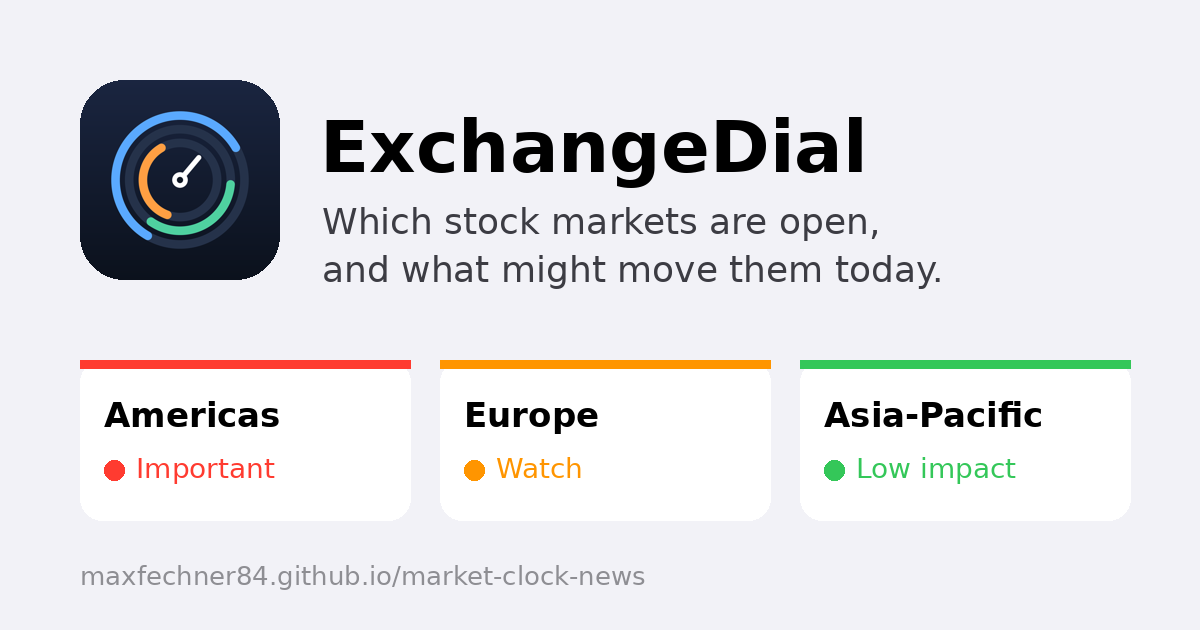
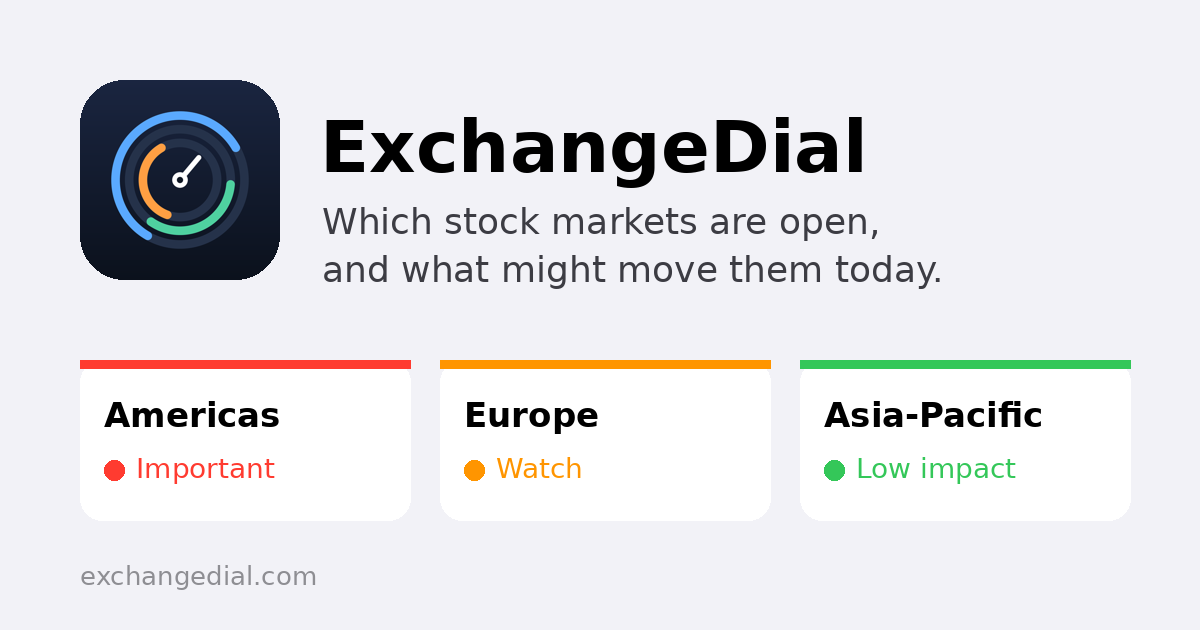
Use custom domain exchangedial.com
Claude-Session: https://claude.ai/code/session_01S3Vu1Jfy3DDBFWdjwpbPo2

Changed region(s): [[0.0617, 0.9048, 0.555, 0.9349]]

diff --git a/index.html b/index.html
@@ -8,8 +8,8 @@
 <meta name="color-scheme" content="light dark">
 <meta name="theme-color" content="#f2f2f7" media="(prefers-color-scheme: light)">
 <meta name="theme-color" content="#000000" media="(prefers-color-scheme: dark)">
-<link rel="canonical" href="https://maxfechner84.github.io/market-clock-news/">
-<link rel="alternate" hreflang="x-default" href="https://maxfechner84.github.io/market-clock-news/">
+<link rel="canonical" href="https://exchangedial.com/">
+<link rel="alternate" hreflang="x-default" href="https://exchangedial.com/">
 <link rel="manifest" href="manifest.webmanifest">
 <link rel="icon" href="icon-192.png">
 <link rel="apple-touch-icon" href="icon.png">
@@ -18,8 +18,8 @@
 <meta name="apple-mobile-web-app-status-bar-style" content="default">
 <meta property="og:title" content="ExchangeDial – which stock markets are open, and what might move them today">
 <meta property="og:description" content="Live countdowns for 11 world exchanges plus a colour-coded summary of today's market-moving news.">
-<meta property="og:image" content="https://maxfechner84.github.io/market-clock-news/og.png">
-<meta property="og:url" content="https://maxfechner84.github.io/market-clock-news/">
+<meta property="og:image" content="https://exchangedial.com/og.png">
+<meta property="og:url" content="https://exchangedial.com/">
 <meta name="twitter:card" content="summary_large_image">
 <style>
 :root {
@@ -620,13 +620,13 @@ h1 { white-space: nowrap; }
       var top = (Array.isArray(n.stories) ? n.stories : []).filter(function (s) { return s && s.level !== "green"; })[0];
       if (top) { g.fillStyle = "#000"; g.font = "600 21px " + F; wrapText(g, "• " + loc(top, "title"), x + 22, yy + 16, cw - 44, 28, 5); }
     });
-    g.fillStyle = "rgba(60,60,67,.6)"; g.font = "500 22px " + F; g.fillText("maxfechner84.github.io/market-clock-news", 48, 604);
+    g.fillStyle = "rgba(60,60,67,.6)"; g.font = "500 22px " + F; g.fillText("exchangedial.com", 48, 604);
     return c;
   }
   document.getElementById("shareBtn").addEventListener("click", function () {
     makeImage().toBlob(function (blob) {
       var file = new File([blob], "market-clock-" + new Date().toISOString().slice(0, 10) + ".png", { type: "image/png" });
-      var data = { files: [file], title: "ExchangeDial", text: t("shareTitle") + " – https://maxfechner84.github.io/market-clock-news/" };
+      var data = { files: [file], title: "ExchangeDial", text: t("shareTitle") + " – https://exchangedial.com/" };
       if (navigator.canShare && navigator.canShare(data)) { navigator.share(data).catch(function () {}); return; }
       var a = document.createElement("a"); a.href = URL.createObjectURL(blob); a.download = file.name; document.body.appendChild(a); a.click(); a.remove();
     }, "image/png");

diff --git a/markets/euronext-paris-fr.html b/markets/euronext-paris-fr.html
@@ -6,14 +6,14 @@
 <title>Euronext ouverte aujourd&#x27;hui ? Horaires Paris en heure de Paris | ExchangeDial</title>
 <meta name="description" content="Horaires d&#x27;ouverture de la Euronext Paris (Paris), en heure locale et dans votre fuseau, statut en direct et jours de fermeture 2026–2027.">
 <meta name="color-scheme" content="light dark">
-<link rel="canonical" href="https://maxfechner84.github.io/market-clock-news/markets/euronext-paris-fr.html">
-<link rel="alternate" hreflang="en" href="https://maxfechner84.github.io/market-clock-news/markets/euronext-paris.html">
-<link rel="alternate" hreflang="fr" href="https://maxfechner84.github.io/market-clock-news/markets/euronext-paris-fr.html">
-<link rel="alternate" hreflang="x-default" href="https://maxfechner84.github.io/market-clock-news/markets/euronext-paris.html">
+<link rel="canonical" href="https://exchangedial.com/markets/euronext-paris-fr.html">
+<link rel="alternate" hreflang="en" href="https://exchangedial.com/markets/euronext-paris.html">
+<link rel="alternate" hreflang="fr" href="https://exchangedial.com/markets/euronext-paris-fr.html">
+<link rel="alternate" hreflang="x-default" href="https://exchangedial.com/markets/euronext-paris.html">
 <link rel="manifest" href="../manifest.webmanifest">
 <link rel="icon" href="../icon-192.png">
 <link rel="apple-touch-icon" href="../icon.png">
-<meta property="og:image" content="https://maxfechner84.github.io/market-clock-news/og.png">
+<meta property="og:image" content="https://exchangedial.com/og.png">
 <script type="application/ld+json">{"@context": "https://schema.org", "@type": "FAQPage", "mainEntity": [{"@type": "Question", "name": "À quelle heure ouvre la Euronext Paris ?", "acceptedAnswer": {"@type": "Answer", "text": "À 09:00, heure locale (Europe/Paris). L'heure dans votre fuseau est indiquée ci-dessus."}}, {"@type": "Question", "name": "Est-elle ouverte le week-end ?", "acceptedAnswer": {"@type": "Answer", "text": "Non, elle est fermée le samedi et le dimanche."}}, {"@type": "Question", "name": "Les horaires changent-ils avec l'heure d'été ?", "acceptedAnswer": {"@type": "Answer", "text": "Les horaires locaux restent les mêmes, mais l'écart avec votre heure peut changer quand l'un des deux pays change d'heure. Cette page en tient compte automatiquement."}}]}</script>
 <style>
 :root {

diff --git a/markets/xetra-fr.html b/markets/xetra-fr.html
@@ -6,14 +6,14 @@
 <title>Xetra ouverte aujourd&#x27;hui ? Horaires Francfort en heure de Paris | ExchangeDial</title>
 <meta name="description" content="Horaires d&#x27;ouverture de la Bourse de Francfort (Xetra) (Francfort), en heure locale et dans votre fuseau, statut en direct et jours de fermeture 2026–2027.">
 <meta name="color-scheme" content="light dark">
-<link rel="canonical" href="https://maxfechner84.github.io/market-clock-news/markets/xetra-fr.html">
-<link rel="alternate" hreflang="en" href="https://maxfechner84.github.io/market-clock-news/markets/xetra.html">
-<link rel="alternate" hreflang="fr" href="https://maxfechner84.github.io/market-clock-news/markets/xetra-fr.html">
-<link rel="alternate" hreflang="x-default" href="https://maxfechner84.github.io/market-clock-news/markets/xetra.html">
+<link rel="canonical" href="https://exchangedial.com/markets/xetra-fr.html">
+<link rel="alternate" hreflang="en" href="https://exchangedial.com/markets/xetra.html">
+<link rel="alternate" hreflang="fr" href="https://exchangedial.com/markets/xetra-fr.html">
+<link rel="alternate" hreflang="x-default" href="https://exchangedial.com/markets/xetra.html">
 <link rel="manifest" href="../manifest.webmanifest">
 <link rel="icon" href="../icon-192.png">
 <link rel="apple-touch-icon" href="../icon.png">
-<meta property="og:image" content="https://maxfechner84.github.io/market-clock-news/og.png">
+<meta property="og:image" content="https://exchangedial.com/og.png">
 <script type="application/ld+json">{"@context": "https://schema.org", "@type": "FAQPage", "mainEntity": [{"@type": "Question", "name": "À quelle heure ouvre la Bourse de Francfort (Xetra) ?", "acceptedAnswer": {"@type": "Answer", "text": "À 09:00, heure locale (Europe/Berlin). L'heure dans votre fuseau est indiquée ci-dessus."}}, {"@type": "Question", "name": "Est-elle ouverte le week-end ?", "acceptedAnswer": {"@type": "Answer", "text": "Non, elle est fermée le samedi et le dimanche."}}, {"@type": "Question", "name": "Les horaires changent-ils avec l'heure d'été ?", "acceptedAnswer": {"@type": "Answer", "text": "Les horaires locaux restent les mêmes, mais l'écart avec votre heure peut changer quand l'un des deux pays change d'heure. Cette page en tient compte automatiquement."}}]}</script>
 <style>
 :root {

diff --git a/markets/hkex-fr.html b/markets/hkex-fr.html
@@ -6,14 +6,14 @@
 <title>HKEX ouverte aujourd&#x27;hui ? Horaires Hong Kong en heure de Paris | ExchangeDial</title>
 <meta name="description" content="Horaires d&#x27;ouverture de la Bourse de Hong Kong (HKEX) (Hong Kong), en heure locale et dans votre fuseau, statut en direct et jours de fermeture 2026–2027.">
 <meta name="color-scheme" content="light dark">
-<link rel="canonical" href="https://maxfechner84.github.io/market-clock-news/markets/hkex-fr.html">
-<link rel="alternate" hreflang="en" href="https://maxfechner84.github.io/market-clock-news/markets/hkex.html">
-<link rel="alternate" hreflang="fr" href="https://maxfechner84.github.io/market-clock-news/markets/hkex-fr.html">
-<link rel="alternate" hreflang="x-default" href="https://maxfechner84.github.io/market-clock-news/markets/hkex.html">
+<link rel="canonical" href="https://exchangedial.com/markets/hkex-fr.html">
+<link rel="alternate" hreflang="en" href="https://exchangedial.com/markets/hkex.html">
+<link rel="alternate" hreflang="fr" href="https://exchangedial.com/markets/hkex-fr.html">
+<link rel="alternate" hreflang="x-default" href="https://exchangedial.com/markets/hkex.html">
 <link rel="manifest" href="../manifest.webmanifest">
 <link rel="icon" href="../icon-192.png">
 <link rel="apple-touch-icon" href="../icon.png">
-<meta property="og:image" content="https://maxfechner84.github.io/market-clock-news/og.png">
+<meta property="og:image" content="https://exchangedial.com/og.png">
 <script type="application/ld+json">{"@context": "https://schema.org", "@type": "FAQPage", "mainEntity": [{"@type": "Question", "name": "À quelle heure ouvre la Bourse de Hong Kong (HKEX) ?", "acceptedAnswer": {"@type": "Answer", "text": "À 09:30, heure locale (Asia/Hong Kong). L'heure dans votre fuseau est indiquée ci-dessus."}}, {"@type": "Question", "name": "Est-elle ouverte le week-end ?", "acceptedAnswer": {"@type": "Answer", "text": "Non, elle est fermée le samedi et le dimanche."}}, {"@type": "Question", "name": "Les horaires changent-ils avec l'heure d'été ?", "acceptedAnswer": {"@type": "Answer", "text": "Les horaires locaux restent les mêmes, mais l'écart avec votre heure peut changer quand l'un des deux pays change d'heure. Cette page en tient compte automatiquement."}}]}</script>
 <style>
 :root {

diff --git a/markets/nse-fr.html b/markets/nse-fr.html
@@ -6,14 +6,14 @@
 <title>NSE ouverte aujourd&#x27;hui ? Horaires Bombay en heure de Paris | ExchangeDial</title>
 <meta name="description" content="Horaires d&#x27;ouverture de la Bourse nationale de l&#x27;Inde (NSE) (Bombay), en heure locale et dans votre fuseau, statut en direct et jours de fermeture 2026–2027.">
 <meta name="color-scheme" content="light dark">
-<link rel="canonical" href="https://maxfechner84.github.io/market-clock-news/markets/nse-fr.html">
-<link rel="alternate" hreflang="en" href="https://maxfechner84.github.io/market-clock-news/markets/nse.html">
-<link rel="alternate" hreflang="fr" href="https://maxfechner84.github.io/market-clock-news/markets/nse-fr.html">
-<link rel="alternate" hreflang="x-default" href="https://maxfechner84.github.io/market-clock-news/markets/nse.html">
+<link rel="canonical" href="https://exchangedial.com/markets/nse-fr.html">
+<link rel="alternate" hreflang="en" href="https://exchangedial.com/markets/nse.html">
+<link rel="alternate" hreflang="fr" href="https://exchangedial.com/markets/nse-fr.html">
+<link rel="alternate" hreflang="x-default" href="https://exchangedial.com/markets/nse.html">
 <link rel="manifest" href="../manifest.webmanifest">
 <link rel="icon" href="../icon-192.png">
 <link rel="apple-touch-icon" href="../icon.png">
-<meta property="og:image" content="https://maxfechner84.github.io/market-clock-news/og.png">
+<meta property="og:image" content="https://exchangedial.com/og.png">
 <script type="application/ld+json">{"@context": "https://schema.org", "@type": "FAQPage", "mainEntity": [{"@type": "Question", "name": "À quelle heure ouvre la Bourse nationale de l'Inde (NSE) ?", "acceptedAnswer": {"@type": "Answer", "text": "À 09:15, heure locale (Asia/Kolkata). L'heure dans votre fuseau est indiquée ci-dessus."}}, {"@type": "Question", "name": "Est-elle ouverte le week-end ?", "acceptedAnswer": {"@type": "Answer", "text": "Non, elle est fermée le samedi et le dimanche."}}, {"@type": "Question", "name": "Les horaires changent-ils avec l'heure d'été ?", "acceptedAnswer": {"@type": "Answer", "text": "Les horaires locaux restent les mêmes, mais l'écart avec votre heure peut changer quand l'un des deux pays change d'heure. Cette page en tient compte automatiquement."}}]}</script>
 <style>
 :root {

diff --git a/markets/nyse-fr.html b/markets/nyse-fr.html
@@ -6,14 +6,14 @@
 <title>NYSE ouverte aujourd&#x27;hui ? Horaires New York en heure de Paris | ExchangeDial</title>
 <meta name="description" content="Horaires d&#x27;ouverture de la Bourse de New York (NYSE) (New York), en heure locale et dans votre fuseau, statut en direct et jours de fermeture 2026–2027.">
 <meta name="color-scheme" content="light dark">
-<link rel="canonical" href="https://maxfechner84.github.io/market-clock-news/markets/nyse-fr.html">
-<link rel="alternate" hreflang="en" href="https://maxfechner84.github.io/market-clock-news/markets/nyse.html">
-<link rel="alternate" hreflang="fr" href="https://maxfechner84.github.io/market-clock-news/markets/nyse-fr.html">
-<link rel="alternate" hreflang="x-default" href="https://maxfechner84.github.io/market-clock-news/markets/nyse.html">
+<link rel="canonical" href="https://exchangedial.com/markets/nyse-fr.html">
+<link rel="alternate" hreflang="en" href="https://exchangedial.com/markets/nyse.html">
+<link rel="alternate" hreflang="fr" href="https://exchangedial.com/markets/nyse-fr.html">
+<link rel="alternate" hreflang="x-default" href="https://exchangedial.com/markets/nyse.html">
 <link rel="manifest" href="../manifest.webmanifest">
 <link rel="icon" href="../icon-192.png">
 <link rel="apple-touch-icon" href="../icon.png">
-<meta property="og:image" content="https://maxfechner84.github.io/market-clock-news/og.png">
+<meta property="og:image" content="https://exchangedial.com/og.png">
 <script type="application/ld+json">{"@context": "https://schema.org", "@type": "FAQPage", "mainEntity": [{"@type": "Question", "name": "À quelle heure ouvre la Bourse de New York (NYSE) ?", "acceptedAnswer": {"@type": "Answer", "text": "À 09:30, heure locale (America/New York). L'heure dans votre fuseau est indiquée ci-dessus."}}, {"@type": "Question", "name": "Est-elle ouverte le week-end ?", "acceptedAnswer": {"@type": "Answer", "text": "Non, elle est fermée le samedi et le dimanche."}}, {"@type": "Question", "name": "Les horaires changent-ils avec l'heure d'été ?", "acceptedAnswer": {"@type": "Answer", "text": "Les horaires locaux restent les mêmes, mais l'écart avec votre heure peut changer quand l'un des deux pays change d'heure. Cette page en tient compte automatiquement."}}]}</script>
 <style>
 :root {

diff --git a/markets/sgx-fr.html b/markets/sgx-fr.html
@@ -6,14 +6,14 @@
 <title>SGX ouverte aujourd&#x27;hui ? Horaires Singapour en heure de Paris | ExchangeDial</title>
 <meta name="description" content="Horaires d&#x27;ouverture de la Bourse de Singapour (SGX) (Singapour), en heure locale et dans votre fuseau, statut en direct et jours de fermeture 2026–2027.">
 <meta name="color-scheme" content="light dark">
-<link rel="canonical" href="https://maxfechner84.github.io/market-clock-news/markets/sgx-fr.html">
-<link rel="alternate" hreflang="en" href="https://maxfechner84.github.io/market-clock-news/markets/sgx.html">
-<link rel="alternate" hreflang="fr" href="https://maxfechner84.github.io/market-clock-news/markets/sgx-fr.html">
-<link rel="alternate" hreflang="x-default" href="https://maxfechner84.github.io/market-clock-news/markets/sgx.html">
+<link rel="canonical" href="https://exchangedial.com/markets/sgx-fr.html">
+<link rel="alternate" hreflang="en" href="https://exchangedial.com/markets/sgx.html">
+<link rel="alternate" hreflang="fr" href="https://exchangedial.com/markets/sgx-fr.html">
+<link rel="alternate" hreflang="x-default" href="https://exchangedial.com/markets/sgx.html">
 <link rel="manifest" href="../manifest.webmanifest">
 <link rel="icon" href="../icon-192.png">
 <link rel="apple-touch-icon" href="../icon.png">
-<meta property="og:image" content="https://maxfechner84.github.io/market-clock-news/og.png">
+<meta property="og:image" content="https://exchangedial.com/og.png">
 <script type="application/ld+json">{"@context": "https://schema.org", "@type": "FAQPage", "mainEntity": [{"@type": "Question", "name": "À quelle heure ouvre la Bourse de Singapour (SGX) ?", "acceptedAnswer": {"@type": "Answer", "text": "À 09:00, heure locale (Asia/Singapore). L'heure dans votre fuseau est indiquée ci-dessus."}}, {"@type": "Question", "name": "Est-elle ouverte le week-end ?", "acceptedAnswer": {"@type": "Answer", "text": "Non, elle est fermée le samedi et le dimanche."}}, {"@type": "Question", "name": "Les horaires changent-ils avec l'heure d'été ?", "acceptedAnswer": {"@type": "Answer", "text": "Les horaires locaux restent les mêmes, mais l'écart avec votre heure peut changer quand l'un des deux pays change d'heure. Cette page en tient compte automatiquement."}}]}</script>
 <style>
 :root {

diff --git a/markets/asx-fr.html b/markets/asx-fr.html
@@ -6,14 +6,14 @@
 <title>ASX ouverte aujourd&#x27;hui ? Horaires Sydney en heure de Paris | ExchangeDial</title>
 <meta name="description" content="Horaires d&#x27;ouverture de la Bourse australienne (ASX) (Sydney), en heure locale et dans votre fuseau, statut en direct et jours de fermeture 2026–2027.">
 <meta name="color-scheme" content="light dark">
-<link rel="canonical" href="https://maxfechner84.github.io/market-clock-news/markets/asx-fr.html">
-<link rel="alternate" hreflang="en" href="https://maxfechner84.github.io/market-clock-news/markets/asx.html">
-<link rel="alternate" hreflang="fr" href="https://maxfechner84.github.io/market-clock-news/markets/asx-fr.html">
-<link rel="alternate" hreflang="x-default" href="https://maxfechner84.github.io/market-clock-news/markets/asx.html">
+<link rel="canonical" href="https://exchangedial.com/markets/asx-fr.html">
+<link rel="alternate" hreflang="en" href="https://exchangedial.com/markets/asx.html">
+<link rel="alternate" hreflang="fr" href="https://exchangedial.com/markets/asx-fr.html">
+<link rel="alternate" hreflang="x-default" href="https://exchangedial.com/markets/asx.html">
 <link rel="manifest" href="../manifest.webmanifest">
 <link rel="icon" href="../icon-192.png">
 <link rel="apple-touch-icon" href="../icon.png">
-<meta property="og:image" content="https://maxfechner84.github.io/market-clock-news/og.png">
+<meta property="og:image" content="https://exchangedial.com/og.png">
 <script type="application/ld+json">{"@context": "https://schema.org", "@type": "FAQPage", "mainEntity": [{"@type": "Question", "name": "À quelle heure ouvre la Bourse australienne (ASX) ?", "acceptedAnswer": {"@type": "Answer", "text": "À 10:00, heure locale (Australia/Sydney). L'heure dans votre fuseau est indiquée ci-dessus."}}, {"@type": "Question", "name": "Est-elle ouverte le week-end ?", "acceptedAnswer": {"@type": "Answer", "text": "Non, elle est fermée le samedi et le dimanche."}}, {"@type": "Question", "name": "Les horaires changent-ils avec l'heure d'été ?", "acceptedAnswer": {"@type": "Answer", "text": "Les horaires locaux restent les mêmes, mais l'écart avec votre heure peut changer quand l'un des deux pays change d'heure. Cette page en tient compte automatiquement."}}]}</script>
 <style>
 :root {

diff --git a/markets/sse-fr.html b/markets/sse-fr.html
@@ -6,14 +6,14 @@
 <title>SSE ouverte aujourd&#x27;hui ? Horaires Shanghai en heure de Paris | ExchangeDial</title>
 <meta name="description" content="Horaires d&#x27;ouverture de la Bourse de Shanghai (SSE) (Shanghai), en heure locale et dans votre fuseau, statut en direct et jours de fermeture 2026–2027.">
 <meta name="color-scheme" content="light dark">
-<link rel="canonical" href="https://maxfechner84.github.io/market-clock-news/markets/sse-fr.html">
-<link rel="alternate" hreflang="en" href="https://maxfechner84.github.io/market-clock-news/markets/sse.html">
-<link rel="alternate" hreflang="fr" href="https://maxfechner84.github.io/market-clock-news/markets/sse-fr.html">
-<link rel="alternate" hreflang="x-default" href="https://maxfechner84.github.io/market-clock-news/markets/sse.html">
+<link rel="canonical" href="https://exchangedial.com/markets/sse-fr.html">
+<link rel="alternate" hreflang="en" href="https://exchangedial.com/markets/sse.html">
+<link rel="alternate" hreflang="fr" href="https://exchangedial.com/markets/sse-fr.html">
+<link rel="alternate" hreflang="x-default" href="https://exchangedial.com/markets/sse.html">
 <link rel="manifest" href="../manifest.webmanifest">
 <link rel="icon" href="../icon-192.png">
 <link rel="apple-touch-icon" href="../icon.png">
-<meta property="og:image" content="https://maxfechner84.github.io/market-clock-news/og.png">
+<meta property="og:image" content="https://exchangedial.com/og.png">
 <script type="application/ld+json">{"@context": "https://schema.org", "@type": "FAQPage", "mainEntity": [{"@type": "Question", "name": "À quelle heure ouvre la Bourse de Shanghai (SSE) ?", "acceptedAnswer": {"@type": "Answer", "text": "À 09:30, heure locale (Asia/Shanghai). L'heure dans votre fuseau est indiquée ci-dessus."}}, {"@type": "Question", "name": "Est-elle ouverte le week-end ?", "acceptedAnswer": {"@type": "Answer", "text": "Non, elle est fermée le samedi et le dimanche."}}, {"@type": "Question", "name": "Les horaires changent-ils avec l'heure d'été ?", "acceptedAnswer": {"@type": "Answer", "text": "Les horaires locaux restent les mêmes, mais l'écart avec votre heure peut changer quand l'un des deux pays change d'heure. Cette page en tient compte automatiquement."}}]}</script>
 <style>
 :root {

diff --git a/markets/tsx-fr.html b/markets/tsx-fr.html
@@ -6,14 +6,14 @@
 <title>TSX ouverte aujourd&#x27;hui ? Horaires Toronto en heure de Paris | ExchangeDial</title>
 <meta name="description" content="Horaires d&#x27;ouverture de la Bourse de Toronto (TSX) (Toronto), en heure locale et dans votre fuseau, statut en direct et jours de fermeture 2026–2027.">
 <meta name="color-scheme" content="light dark">
-<link rel="canonical" href="https://maxfechner84.github.io/market-clock-news/markets/tsx-fr.html">
-<link rel="alternate" hreflang="en" href="https://maxfechner84.github.io/market-clock-news/markets/tsx.html">
-<link rel="alternate" hreflang="fr" href="https://maxfechner84.github.io/market-clock-news/markets/tsx-fr.html">
-<link rel="alternate" hreflang="x-default" href="https://maxfechner84.github.io/market-clock-news/markets/tsx.html">
+<link rel="canonical" href="https://exchangedial.com/markets/tsx-fr.html">
+<link rel="alternate" hreflang="en" href="https://exchangedial.com/markets/tsx.html">
+<link rel="alternate" hreflang="fr" href="https://exchangedial.com/markets/tsx-fr.html">
+<link rel="alternate" hreflang="x-default" href="https://exchangedial.com/markets/tsx.html">
 <link rel="manifest" href="../manifest.webmanifest">
 <link rel="icon" href="../icon-192.png">
 <link rel="apple-touch-icon" href="../icon.png">
-<meta property="og:image" content="https://maxfechner84.github.io/market-clock-news/og.png">
+<meta property="og:image" content="https://exchangedial.com/og.png">
 <script type="application/ld+json">{"@context": "https://schema.org", "@type": "FAQPage", "mainEntity": [{"@type": "Question", "name": "À quelle heure ouvre la Bourse de Toronto (TSX) ?", "acceptedAnswer": {"@type": "Answer", "text": "À 09:30, heure locale (America/Toronto). L'heure dans votre fuseau est indiquée ci-dessus."}}, {"@type": "Question", "name": "Est-elle ouverte le week-end ?", "acceptedAnswer": {"@type": "Answer", "text": "Non, elle est fermée le samedi et le dimanche."}}, {"@type": "Question", "name": "Les horaires changent-ils avec l'heure d'été ?", "acceptedAnswer": {"@type": "Answer", "text": "Les horaires locaux restent les mêmes, mais l'écart avec votre heure peut changer quand l'un des deux pays change d'heure. Cette page en tient compte automatiquement."}}]}</script>
 <style>
 :root {

diff --git a/markets/lse-fr.html b/markets/lse-fr.html
@@ -6,14 +6,14 @@
 <title>LSE ouverte aujourd&#x27;hui ? Horaires Londres en heure de Paris | ExchangeDial</title>
 <meta name="description" content="Horaires d&#x27;ouverture de la Bourse de Londres (LSE) (Londres), en heure locale et dans votre fuseau, statut en direct et jours de fermeture 2026–2027.">
 <meta name="color-scheme" content="light dark">
-<link rel="canonical" href="https://maxfechner84.github.io/market-clock-news/markets/lse-fr.html">
-<link rel="alternate" hreflang="en" href="https://maxfechner84.github.io/market-clock-news/markets/lse.html">
-<link rel="alternate" hreflang="fr" href="https://maxfechner84.github.io/market-clock-news/markets/lse-fr.html">
-<link rel="alternate" hreflang="x-default" href="https://maxfechner84.github.io/market-clock-news/markets/lse.html">
+<link rel="canonical" href="https://exchangedial.com/markets/lse-fr.html">
+<link rel="alternate" hreflang="en" href="https://exchangedial.com/markets/lse.html">
+<link rel="alternate" hreflang="fr" href="https://exchangedial.com/markets/lse-fr.html">
+<link rel="alternate" hreflang="x-default" href="https://exchangedial.com/markets/lse.html">
 <link rel="manifest" href="../manifest.webmanifest">
 <link rel="icon" href="../icon-192.png">
 <link rel="apple-touch-icon" href="../icon.png">
-<meta property="og:image" content="https://maxfechner84.github.io/market-clock-news/og.png">
+<meta property="og:image" content="https://exchangedial.com/og.png">
 <script type="application/ld+json">{"@context": "https://schema.org", "@type": "FAQPage", "mainEntity": [{"@type": "Question", "name": "À quelle heure ouvre la Bourse de Londres (LSE) ?", "acceptedAnswer": {"@type": "Answer", "text": "À 08:00, heure locale (Europe/London). L'heure dans votre fuseau est indiquée ci-dessus."}}, {"@type": "Question", "name": "Est-elle ouverte le week-end ?", "acceptedAnswer": {"@type": "Answer", "text": "Non, elle est fermée le samedi et le dimanche."}}, {"@type": "Question", "name": "Les horaires changent-ils avec l'heure d'été ?", "acceptedAnswer": {"@type": "Answer", "text": "Les horaires locaux restent les mêmes, mais l'écart avec votre heure peut changer quand l'un des deux pays change d'heure. Cette page en tient compte automatiquement."}}]}</script>
 <style>
 :root {

diff --git a/markets/tse-fr.html b/markets/tse-fr.html
@@ -6,14 +6,14 @@
 <title>TSE ouverte aujourd&#x27;hui ? Horaires Tokyo en heure de Paris | ExchangeDial</title>
 <meta name="description" content="Horaires d&#x27;ouverture de la Bourse de Tokyo (TSE) (Tokyo), en heure locale et dans votre fuseau, statut en direct et jours de fermeture 2026–2027.">
 <meta name="color-scheme" content="light dark">
-<link rel="canonical" href="https://maxfechner84.github.io/market-clock-news/markets/tse-fr.html">
-<link rel="alternate" hreflang="en" href="https://maxfechner84.github.io/market-clock-news/markets/tse.html">
-<link rel="alternate" hreflang="fr" href="https://maxfechner84.github.io/market-clock-news/markets/tse-fr.html">
-<link rel="alternate" hreflang="x-default" href="https://maxfechner84.github.io/market-clock-news/markets/tse.html">
+<link rel="canonical" href="https://exchangedial.com/markets/tse-fr.html">
+<link rel="alternate" hreflang="en" href="https://exchangedial.com/markets/tse.html">
+<link rel="alternate" hreflang="fr" href="https://exchangedial.com/markets/tse-fr.html">
+<link rel="alternate" hreflang="x-default" href="https://exchangedial.com/markets/tse.html">
 <link rel="manifest" href="../manifest.webmanifest">
 <link rel="icon" href="../icon-192.png">
 <link rel="apple-touch-icon" href="../icon.png">
-<meta property="og:image" content="https://maxfechner84.github.io/market-clock-news/og.png">
+<meta property="og:image" content="https://exchangedial.com/og.png">
 <script type="application/ld+json">{"@context": "https://schema.org", "@type": "FAQPage", "mainEntity": [{"@type": "Question", "name": "À quelle heure ouvre la Bourse de Tokyo (TSE) ?", "acceptedAnswer": {"@type": "Answer", "text": "À 09:00, heure locale (Asia/Tokyo). L'heure dans votre fuseau est indiquée ci-dessus."}}, {"@type": "Question", "name": "Est-elle ouverte le week-end ?", "acceptedAnswer": {"@type": "Answer", "text": "Non, elle est fermée le samedi et le dimanche."}}, {"@type": "Question", "name": "Les horaires changent-ils avec l'heure d'été ?", "acceptedAnswer": {"@type": "Answer", "text": "Les horaires locaux restent les mêmes, mais l'écart avec votre heure peut changer quand l'un des deux pays change d'heure. Cette page en tient compte automatiquement."}}]}</script>
 <style>
 :root {
